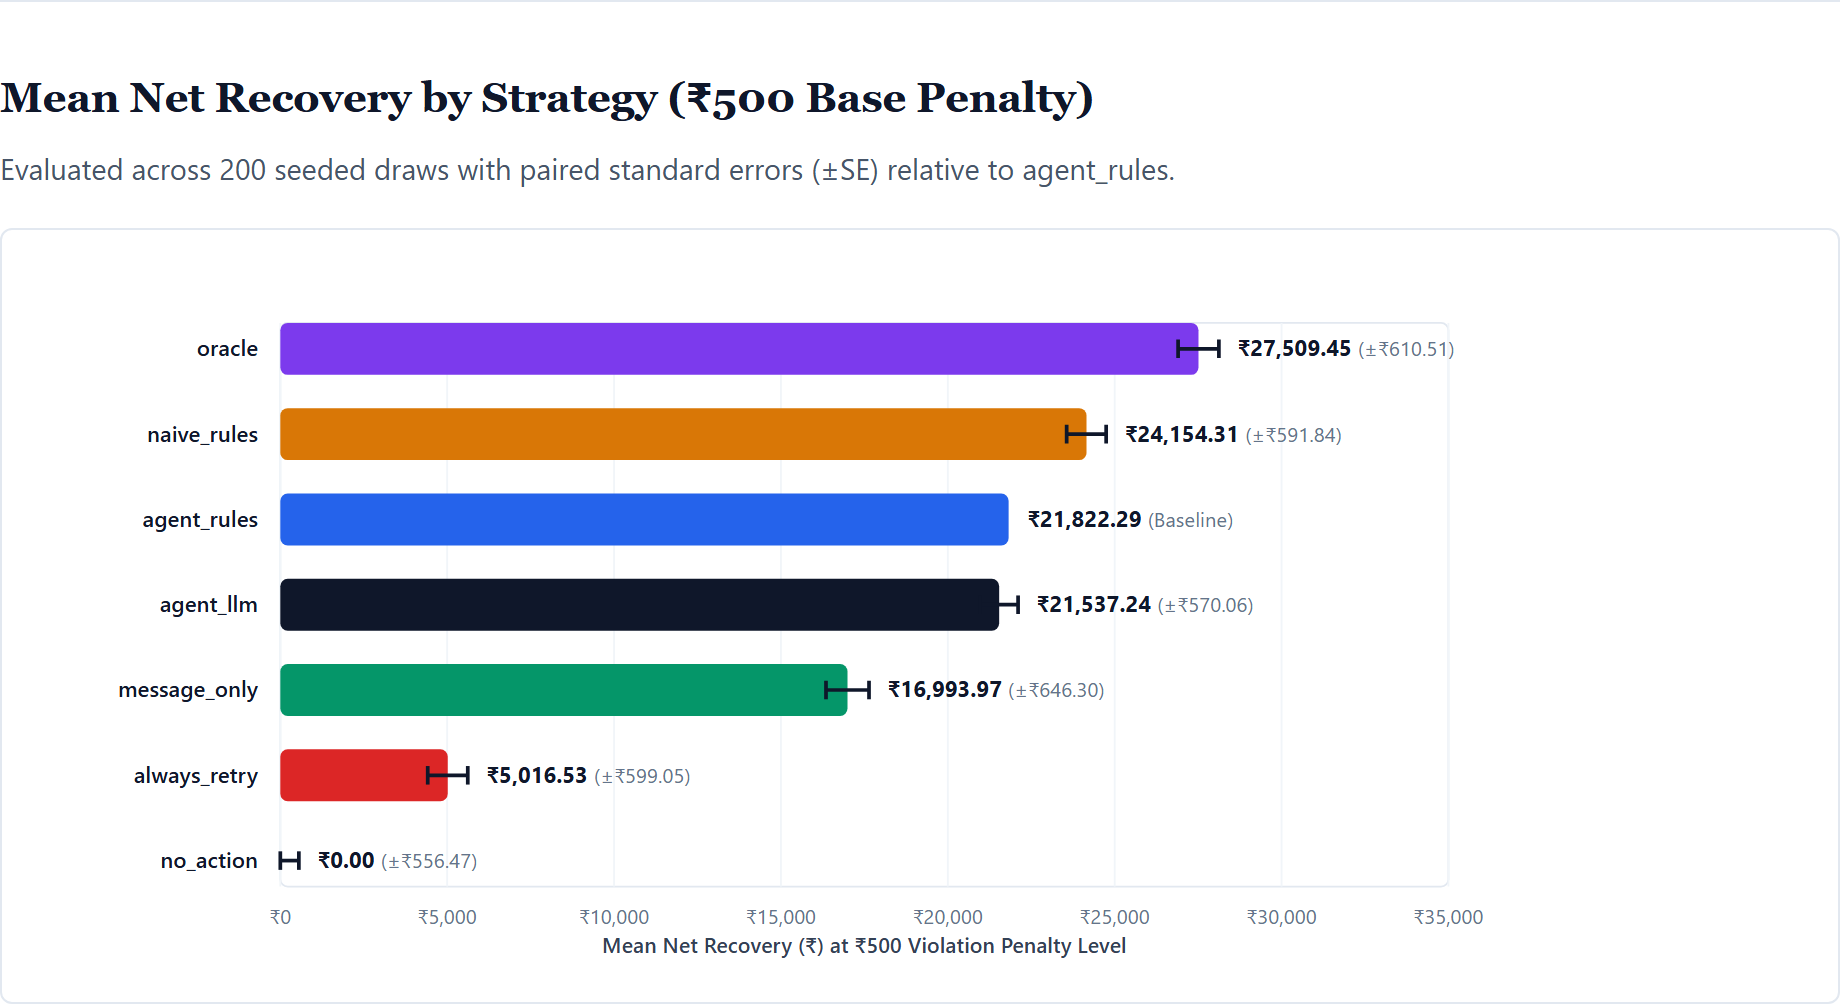
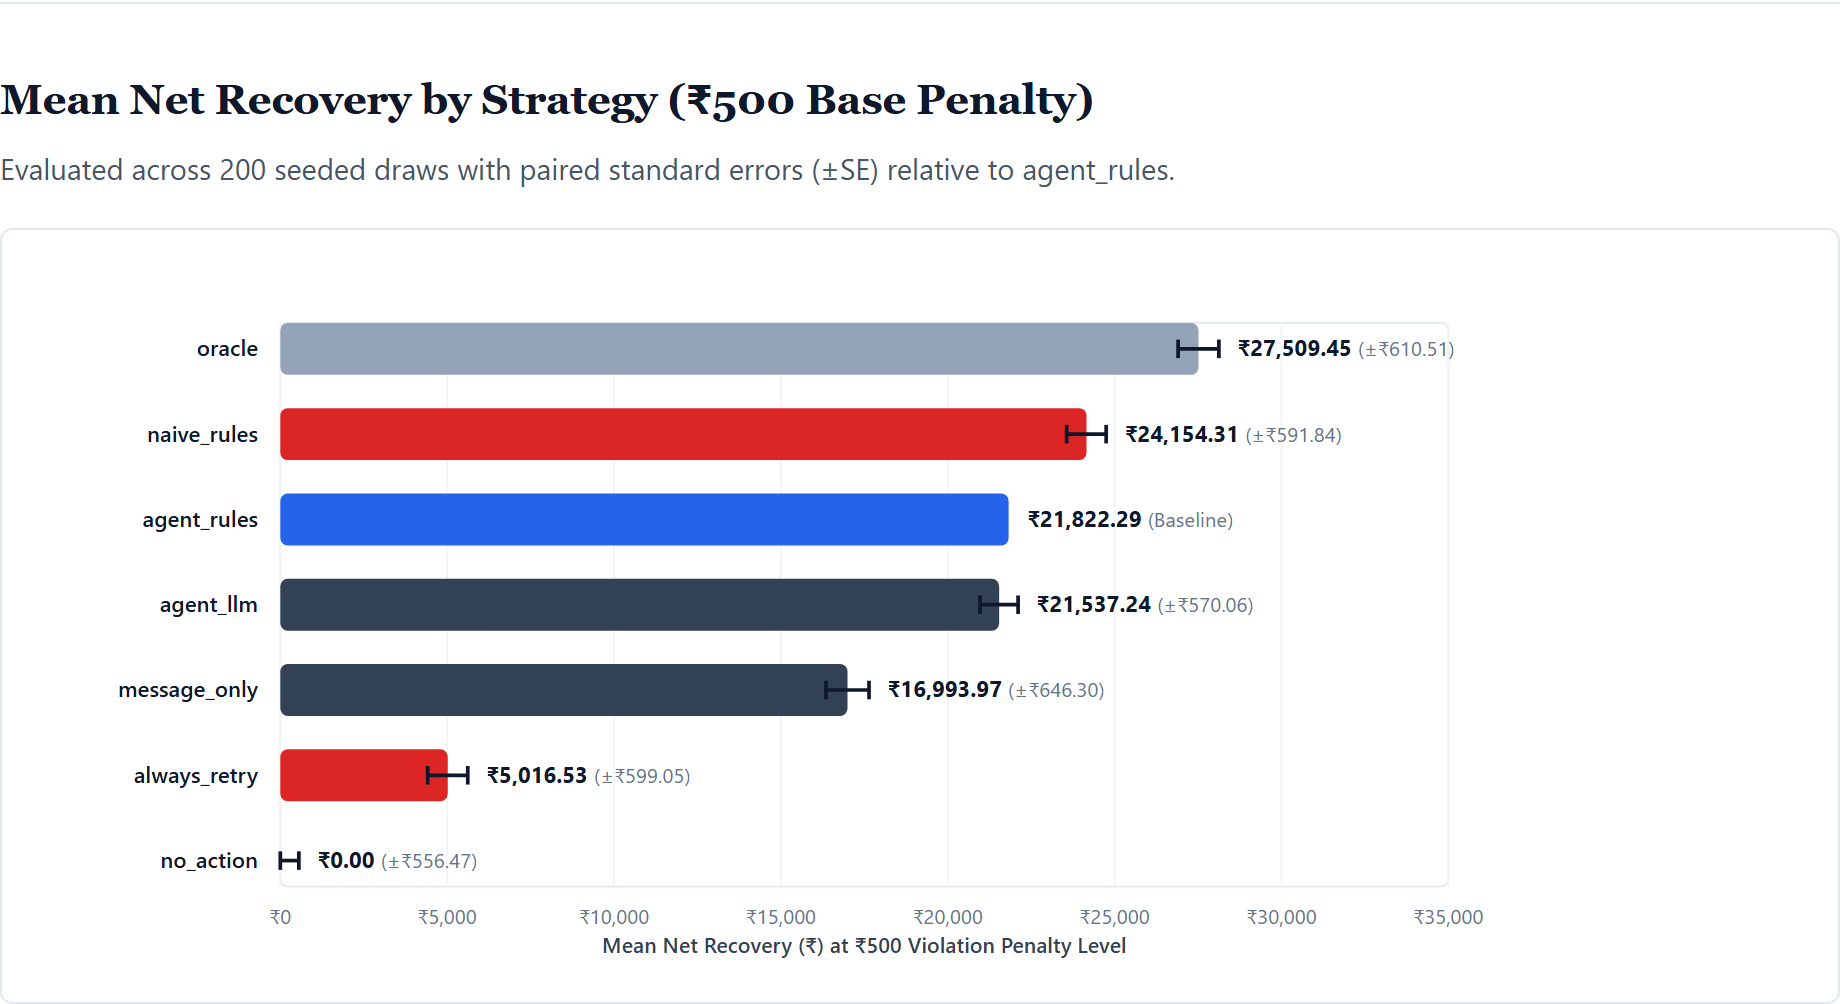
Apply semantic palette to bar chart and update sensitivity caption

diff --git a/benchmark_report.html b/benchmark_report.html
@@ -369,7 +369,7 @@
                 <span class="chip">Revenue at Risk: <strong>₹98,952.00</strong></span>
                 <span class="chip">Base Penalty: <strong>₹500 / violation</strong></span>
                 <span class="chip">Policy Version: <strong>d2975ba696cd</strong></span>
-                <span class="chip">Generated: <strong>2026-09-05 14:04:33</strong></span>
+                <span class="chip">Generated: <strong>2026-09-05 14:16:32</strong></span>
             </div>
             <div class="composition-box">
                 agent_llm composition: 31 live LLM / 0 rule fallback (cache miss) / 7 deterministic guard
@@ -516,7 +516,7 @@
 <g><line x1="287.3" y1="50" x2="287.3" y2="68" stroke="#94a3b8" stroke-width="1.2" /><rect x="287.3" y="18" width="156" height="32" rx="4" fill="#f8fafc" stroke="#cbd5e1" stroke-width="1.2" /><text x="365.3" y="31.0" text-anchor="middle" font-size="10" font-weight="bold" fill="#334155" style="font-variant-numeric: tabular-nums;">Oracle Threshold: ₹1,351.22</text><text x="365.3" y="43.0" text-anchor="middle" font-size="8.5" font-weight="600" fill="#64748b">violations drop to 0</text></g>
 </svg>
             </div>
-            <p class="chart-caption">Lines show mean net recovery across penalty levels from ₹0 to ₹5,000. agent_rules and agent_llm nearly coincide (differing by only ₹285 at this scale) — that near-coincidence is the finding: compliance guards and expected-value gating achieve parity with an LLM decision engine while eliminating non-compliance risk. See the sensitivity table for exact values.</p>
+            <p class="chart-caption">Lines show mean net recovery across penalty levels from Rs 0 to Rs 5,000. agent_rules and agent_llm nearly coincide - paired across 200 identical seeds the difference is -Rs 285 +/- Rs 570, smaller than its own standard error. Both run zero violations. See the sensitivity table for exact values.</p>
         </section>
 
         <!-- 2.d Horizontal Bar Chart at Base Penalty -->
@@ -545,13 +545,13 @@
 <line x1="765.0" y1="35" x2="765.0" y2="339" stroke="#f1f5f9" stroke-width="1" />
 <text x="765.0" y="359" text-anchor="middle" font-size="11" fill="#64748b" style="font-variant-numeric: tabular-nums;">₹35,000</text>
 <text x="450.0" y="375" text-anchor="middle" font-size="11.5" font-weight="600" fill="#334155">Mean Net Recovery (₹) at ₹500 Violation Penalty Level</text>
-<rect x="135" y="35" width="495.2" height="28" fill="#7c3aed" rx="4" />
+<rect x="135" y="35" width="495.2" height="28" fill="#94a3b8" rx="4" />
 <text x="123" y="53" text-anchor="end" font-size="12" font-weight="600" fill="#0f172a">oracle</text>
 <line x1="619.2" y1="49.0" x2="641.2" y2="49.0" stroke="#0f172a" stroke-width="2" />
 <line x1="619.2" y1="44.0" x2="619.2" y2="54.0" stroke="#0f172a" stroke-width="2" />
 <line x1="641.2" y1="44.0" x2="641.2" y2="54.0" stroke="#0f172a" stroke-width="2" />
 <text x="651.2" y="53" font-size="12" font-weight="700" fill="#0f172a" style="font-variant-numeric: tabular-nums;">₹27,509.45 <tspan font-size="11" font-weight="normal" fill="#64748b">(±₹610.51)</tspan></text>
-<rect x="135" y="81" width="434.8" height="28" fill="#d97706" rx="4" />
+<rect x="135" y="81" width="434.8" height="28" fill="#dc2626" rx="4" />
 <text x="123" y="99" text-anchor="end" font-size="12" font-weight="600" fill="#0f172a">naive_rules</text>
 <line x1="559.1" y1="95.0" x2="580.4" y2="95.0" stroke="#0f172a" stroke-width="2" />
 <line x1="559.1" y1="90.0" x2="559.1" y2="100.0" stroke="#0f172a" stroke-width="2" />
@@ -560,13 +560,13 @@
 <rect x="135" y="127" width="392.8" height="28" fill="#2563eb" rx="4" />
 <text x="123" y="145" text-anchor="end" font-size="12" font-weight="600" fill="#0f172a">agent_rules</text>
 <text x="537.8" y="145" font-size="12" font-weight="700" fill="#0f172a" style="font-variant-numeric: tabular-nums;">₹21,822.29 <tspan font-size="11" font-weight="normal" fill="#64748b">(Baseline)</tspan></text>
-<rect x="135" y="173" width="387.7" height="28" fill="#0f172a" rx="4" />
+<rect x="135" y="173" width="387.7" height="28" fill="#334155" rx="4" />
 <text x="123" y="191" text-anchor="end" font-size="12" font-weight="600" fill="#0f172a">agent_llm</text>
 <line x1="512.4" y1="187.0" x2="532.9" y2="187.0" stroke="#0f172a" stroke-width="2" />
 <line x1="512.4" y1="182.0" x2="512.4" y2="192.0" stroke="#0f172a" stroke-width="2" />
 <line x1="532.9" y1="182.0" x2="532.9" y2="192.0" stroke="#0f172a" stroke-width="2" />
 <text x="542.9" y="191" font-size="12" font-weight="700" fill="#0f172a" style="font-variant-numeric: tabular-nums;">₹21,537.24 <tspan font-size="11" font-weight="normal" fill="#64748b">(±₹570.06)</tspan></text>
-<rect x="135" y="219" width="305.9" height="28" fill="#059669" rx="4" />
+<rect x="135" y="219" width="305.9" height="28" fill="#334155" rx="4" />
 <text x="123" y="237" text-anchor="end" font-size="12" font-weight="600" fill="#0f172a">message_only</text>
 <line x1="429.3" y1="233.0" x2="452.5" y2="233.0" stroke="#0f172a" stroke-width="2" />
 <line x1="429.3" y1="228.0" x2="429.3" y2="238.0" stroke="#0f172a" stroke-width="2" />
@@ -578,7 +578,7 @@
 <line x1="214.5" y1="274.0" x2="214.5" y2="284.0" stroke="#0f172a" stroke-width="2" />
 <line x1="236.1" y1="274.0" x2="236.1" y2="284.0" stroke="#0f172a" stroke-width="2" />
 <text x="246.1" y="283" font-size="12" font-weight="700" fill="#0f172a" style="font-variant-numeric: tabular-nums;">₹5,016.53 <tspan font-size="11" font-weight="normal" fill="#64748b">(±₹599.05)</tspan></text>
-<rect x="135" y="311" width="0.0" height="28" fill="#64748b" rx="4" />
+<rect x="135" y="311" width="0.0" height="28" fill="#cbd5e1" rx="4" />
 <text x="123" y="329" text-anchor="end" font-size="12" font-weight="600" fill="#0f172a">no_action</text>
 <line x1="135.0" y1="325.0" x2="145.0" y2="325.0" stroke="#0f172a" stroke-width="2" />
 <line x1="135.0" y1="320.0" x2="135.0" y2="330.0" stroke="#0f172a" stroke-width="2" />
@@ -618,7 +618,7 @@
             <td class="text-center font-bold text-slate-500">1</td>
             <td>
                 <div class="strategy-badge">
-                    <span class="strategy-dot" style="background-color: #7c3aed;"></span>
+                    <span class="strategy-dot" style="background-color: #94a3b8;"></span>
                     <strong>oracle</strong>
                 </div>
             </td>
@@ -638,7 +638,7 @@
             <td class="text-center font-bold text-slate-500">2</td>
             <td>
                 <div class="strategy-badge">
-                    <span class="strategy-dot" style="background-color: #d97706;"></span>
+                    <span class="strategy-dot" style="background-color: #dc2626;"></span>
                     <strong>naive_rules</strong>
                 </div>
             </td>
@@ -678,7 +678,7 @@
             <td class="text-center font-bold text-slate-500">4</td>
             <td>
                 <div class="strategy-badge">
-                    <span class="strategy-dot" style="background-color: #0f172a;"></span>
+                    <span class="strategy-dot" style="background-color: #334155;"></span>
                     <strong>agent_llm</strong>
                 </div>
             </td>
@@ -698,7 +698,7 @@
             <td class="text-center font-bold text-slate-500">5</td>
             <td>
                 <div class="strategy-badge">
-                    <span class="strategy-dot" style="background-color: #059669;"></span>
+                    <span class="strategy-dot" style="background-color: #334155;"></span>
                     <strong>message_only</strong>
                 </div>
             </td>
@@ -738,7 +738,7 @@
             <td class="text-center font-bold text-slate-500">7</td>
             <td>
                 <div class="strategy-badge">
-                    <span class="strategy-dot" style="background-color: #64748b;"></span>
+                    <span class="strategy-dot" style="background-color: #cbd5e1;"></span>
                     <strong>no_action</strong>
                 </div>
             </td>
@@ -775,7 +775,7 @@
                         </tr>
                     </thead>
                     <tbody>
-                        <tr ><td class="font-bold text-slate-900 text-center num-cell">₹0</td><td class="text-right text-slate-700 num-cell">₹28,159.94</td><td class="text-right text-slate-700 num-cell">₹27,154.31</td><td class="text-right text-slate-700 num-cell">₹21,822.29</td><td class="text-right text-slate-700 num-cell">₹21,537.24</td><td class="text-right text-slate-700 num-cell">₹16,993.97</td><td class="text-right text-slate-700 num-cell">₹13,016.53</td><td class="text-right text-slate-700 num-cell">₹0.00</td><td class="text-center"><span class="badge-deployable" style="background: #d9770615; color: #d97706; border: 1px solid #d9770640;">naive_rules</span></td></tr><tr ><td class="font-bold text-slate-900 text-center num-cell">₹250</td><td class="text-right text-slate-700 num-cell">₹27,759.45</td><td class="text-right text-slate-700 num-cell">₹25,654.31</td><td class="text-right text-slate-700 num-cell">₹21,822.29</td><td class="text-right text-slate-700 num-cell">₹21,537.24</td><td class="text-right text-slate-700 num-cell">₹16,993.97</td><td class="text-right text-slate-700 num-cell">₹9,016.53</td><td class="text-right text-slate-700 num-cell">₹0.00</td><td class="text-center"><span class="badge-deployable" style="background: #d9770615; color: #d97706; border: 1px solid #d9770640;">naive_rules</span></td></tr><tr ><td class="font-bold text-slate-900 text-center num-cell">₹500</td><td class="text-right text-slate-700 num-cell">₹27,509.45</td><td class="text-right text-slate-700 num-cell">₹24,154.31</td><td class="text-right text-slate-700 num-cell">₹21,822.29</td><td class="text-right text-slate-700 num-cell">₹21,537.24</td><td class="text-right text-slate-700 num-cell">₹16,993.97</td><td class="text-right text-slate-700 num-cell">₹5,016.53</td><td class="text-right text-slate-700 num-cell">₹0.00</td><td class="text-center"><span class="badge-deployable" style="background: #d9770615; color: #d97706; border: 1px solid #d9770640;">naive_rules</span></td></tr><tr class="highlight-row"><td class="font-bold text-slate-900 text-center num-cell">₹889</td><td class="text-right text-slate-700 num-cell">₹27,120.45</td><td class="text-right text-slate-700 num-cell">₹21,820.31</td><td class="text-right text-slate-700 num-cell">₹21,822.29</td><td class="text-right text-slate-700 num-cell">₹21,537.24</td><td class="text-right text-slate-700 num-cell">₹16,993.97</td><td class="text-right text-danger font-bold num-cell">₹-1,207.46</td><td class="text-right text-slate-700 num-cell">₹0.00</td><td class="text-center"><span class="badge-deployable" style="background: #2563eb15; color: #2563eb; border: 1px solid #2563eb40;">agent_rules</span></td></tr><tr ><td class="font-bold text-slate-900 text-center num-cell">₹1,500</td><td class="text-right text-slate-700 num-cell">₹26,110.62</td><td class="text-right text-slate-700 num-cell">₹18,154.31</td><td class="text-right text-slate-700 num-cell">₹21,822.29</td><td class="text-right text-slate-700 num-cell">₹21,537.24</td><td class="text-right text-slate-700 num-cell">₹16,993.97</td><td class="text-right text-danger font-bold num-cell">₹-10,983.47</td><td class="text-right text-slate-700 num-cell">₹0.00</td><td class="text-center"><span class="badge-deployable" style="background: #2563eb15; color: #2563eb; border: 1px solid #2563eb40;">agent_rules</span></td></tr><tr ><td class="font-bold text-slate-900 text-center num-cell">₹3,000</td><td class="text-right text-slate-700 num-cell">₹26,110.62</td><td class="text-right text-slate-700 num-cell">₹9,154.32</td><td class="text-right text-slate-700 num-cell">₹21,822.29</td><td class="text-right text-slate-700 num-cell">₹21,537.24</td><td class="text-right text-slate-700 num-cell">₹16,993.97</td><td class="text-right text-danger font-bold num-cell">₹-34,983.46</td><td class="text-right text-slate-700 num-cell">₹0.00</td><td class="text-center"><span class="badge-deployable" style="background: #2563eb15; color: #2563eb; border: 1px solid #2563eb40;">agent_rules</span></td></tr><tr ><td class="font-bold text-slate-900 text-center num-cell">₹5,000</td><td class="text-right text-slate-700 num-cell">₹26,110.62</td><td class="text-right text-danger font-bold num-cell">₹-2,845.68</td><td class="text-right text-slate-700 num-cell">₹21,822.29</td><td class="text-right text-slate-700 num-cell">₹21,537.24</td><td class="text-right text-slate-700 num-cell">₹16,993.97</td><td class="text-right text-danger font-bold num-cell">₹-66,983.46</td><td class="text-right text-slate-700 num-cell">₹0.00</td><td class="text-center"><span class="badge-deployable" style="background: #2563eb15; color: #2563eb; border: 1px solid #2563eb40;">agent_rules</span></td></tr>
+                        <tr ><td class="font-bold text-slate-900 text-center num-cell">₹0</td><td class="text-right text-slate-700 num-cell">₹28,159.94</td><td class="text-right text-slate-700 num-cell">₹27,154.31</td><td class="text-right text-slate-700 num-cell">₹21,822.29</td><td class="text-right text-slate-700 num-cell">₹21,537.24</td><td class="text-right text-slate-700 num-cell">₹16,993.97</td><td class="text-right text-slate-700 num-cell">₹13,016.53</td><td class="text-right text-slate-700 num-cell">₹0.00</td><td class="text-center"><span class="badge-deployable" style="background: #dc262615; color: #dc2626; border: 1px solid #dc262640;">naive_rules</span></td></tr><tr ><td class="font-bold text-slate-900 text-center num-cell">₹250</td><td class="text-right text-slate-700 num-cell">₹27,759.45</td><td class="text-right text-slate-700 num-cell">₹25,654.31</td><td class="text-right text-slate-700 num-cell">₹21,822.29</td><td class="text-right text-slate-700 num-cell">₹21,537.24</td><td class="text-right text-slate-700 num-cell">₹16,993.97</td><td class="text-right text-slate-700 num-cell">₹9,016.53</td><td class="text-right text-slate-700 num-cell">₹0.00</td><td class="text-center"><span class="badge-deployable" style="background: #dc262615; color: #dc2626; border: 1px solid #dc262640;">naive_rules</span></td></tr><tr ><td class="font-bold text-slate-900 text-center num-cell">₹500</td><td class="text-right text-slate-700 num-cell">₹27,509.45</td><td class="text-right text-slate-700 num-cell">₹24,154.31</td><td class="text-right text-slate-700 num-cell">₹21,822.29</td><td class="text-right text-slate-700 num-cell">₹21,537.24</td><td class="text-right text-slate-700 num-cell">₹16,993.97</td><td class="text-right text-slate-700 num-cell">₹5,016.53</td><td class="text-right text-slate-700 num-cell">₹0.00</td><td class="text-center"><span class="badge-deployable" style="background: #dc262615; color: #dc2626; border: 1px solid #dc262640;">naive_rules</span></td></tr><tr class="highlight-row"><td class="font-bold text-slate-900 text-center num-cell">₹889</td><td class="text-right text-slate-700 num-cell">₹27,120.45</td><td class="text-right text-slate-700 num-cell">₹21,820.31</td><td class="text-right text-slate-700 num-cell">₹21,822.29</td><td class="text-right text-slate-700 num-cell">₹21,537.24</td><td class="text-right text-slate-700 num-cell">₹16,993.97</td><td class="text-right text-danger font-bold num-cell">₹-1,207.46</td><td class="text-right text-slate-700 num-cell">₹0.00</td><td class="text-center"><span class="badge-deployable" style="background: #2563eb15; color: #2563eb; border: 1px solid #2563eb40;">agent_rules</span></td></tr><tr ><td class="font-bold text-slate-900 text-center num-cell">₹1,500</td><td class="text-right text-slate-700 num-cell">₹26,110.62</td><td class="text-right text-slate-700 num-cell">₹18,154.31</td><td class="text-right text-slate-700 num-cell">₹21,822.29</td><td class="text-right text-slate-700 num-cell">₹21,537.24</td><td class="text-right text-slate-700 num-cell">₹16,993.97</td><td class="text-right text-danger font-bold num-cell">₹-10,983.47</td><td class="text-right text-slate-700 num-cell">₹0.00</td><td class="text-center"><span class="badge-deployable" style="background: #2563eb15; color: #2563eb; border: 1px solid #2563eb40;">agent_rules</span></td></tr><tr ><td class="font-bold text-slate-900 text-center num-cell">₹3,000</td><td class="text-right text-slate-700 num-cell">₹26,110.62</td><td class="text-right text-slate-700 num-cell">₹9,154.32</td><td class="text-right text-slate-700 num-cell">₹21,822.29</td><td class="text-right text-slate-700 num-cell">₹21,537.24</td><td class="text-right text-slate-700 num-cell">₹16,993.97</td><td class="text-right text-danger font-bold num-cell">₹-34,983.46</td><td class="text-right text-slate-700 num-cell">₹0.00</td><td class="text-center"><span class="badge-deployable" style="background: #2563eb15; color: #2563eb; border: 1px solid #2563eb40;">agent_rules</span></td></tr><tr ><td class="font-bold text-slate-900 text-center num-cell">₹5,000</td><td class="text-right text-slate-700 num-cell">₹26,110.62</td><td class="text-right text-danger font-bold num-cell">₹-2,845.68</td><td class="text-right text-slate-700 num-cell">₹21,822.29</td><td class="text-right text-slate-700 num-cell">₹21,537.24</td><td class="text-right text-slate-700 num-cell">₹16,993.97</td><td class="text-right text-danger font-bold num-cell">₹-66,983.46</td><td class="text-right text-slate-700 num-cell">₹0.00</td><td class="text-center"><span class="badge-deployable" style="background: #2563eb15; color: #2563eb; border: 1px solid #2563eb40;">agent_rules</span></td></tr>
                     </tbody>
                 </table>
             </div>
@@ -871,7 +871,7 @@
         <tr>
             <td>
                 <div class="strategy-badge">
-                    <span class="strategy-dot" style="background-color: #7c3aed;"></span>
+                    <span class="strategy-dot" style="background-color: #94a3b8;"></span>
                     <strong>oracle</strong>
                 </div>
             </td>
@@ -885,7 +885,7 @@
         <tr>
             <td>
                 <div class="strategy-badge">
-                    <span class="strategy-dot" style="background-color: #d97706;"></span>
+                    <span class="strategy-dot" style="background-color: #dc2626;"></span>
                     <strong>naive_rules</strong>
                 </div>
             </td>
@@ -913,7 +913,7 @@
         <tr>
             <td>
                 <div class="strategy-badge">
-                    <span class="strategy-dot" style="background-color: #0f172a;"></span>
+                    <span class="strategy-dot" style="background-color: #334155;"></span>
                     <strong>agent_llm</strong>
                 </div>
             </td>
@@ -927,7 +927,7 @@
         <tr>
             <td>
                 <div class="strategy-badge">
-                    <span class="strategy-dot" style="background-color: #059669;"></span>
+                    <span class="strategy-dot" style="background-color: #334155;"></span>
                     <strong>message_only</strong>
                 </div>
             </td>
@@ -955,7 +955,7 @@
         <tr>
             <td>
                 <div class="strategy-badge">
-                    <span class="strategy-dot" style="background-color: #64748b;"></span>
+                    <span class="strategy-dot" style="background-color: #cbd5e1;"></span>
                     <strong>no_action</strong>
                 </div>
             </td>

diff --git a/report_generator.py b/report_generator.py
@@ -4,13 +4,13 @@ from datetime import datetime
 
 
 STRATEGY_COLORS = {
-    "oracle": "#7c3aed",
-    "agent_rules": "#2563eb",
-    "agent_llm": "#0f172a",
-    "naive_rules": "#d97706",
-    "always_retry": "#dc2626",
-    "message_only": "#059669",
-    "no_action": "#64748b",
+    "agent_rules": "#2563eb",   # single accent blue (subject)
+    "agent_llm": "#334155",     # neutral dark slate (compliant family)
+    "message_only": "#334155",  # neutral dark slate (compliant family)
+    "naive_rules": "#dc2626",   # muted red (value-destroying family)
+    "always_retry": "#dc2626",  # muted red (value-destroying family)
+    "oracle": "#94a3b8",        # light grey (reference bound)
+    "no_action": "#cbd5e1",     # lightest grey (baseline)
 }
 
 STRATEGY_LABELS = {
@@ -920,7 +920,7 @@ def generate_benchmark_html(
             <div class="chart-box">
                 {curve_svg}
             </div>
-            <p class="chart-caption">Lines show mean net recovery across penalty levels from ₹0 to ₹5,000. agent_rules and agent_llm nearly coincide (differing by only ₹285 at this scale) — that near-coincidence is the finding: compliance guards and expected-value gating achieve parity with an LLM decision engine while eliminating non-compliance risk. See the sensitivity table for exact values.</p>
+            <p class="chart-caption">Lines show mean net recovery across penalty levels from Rs 0 to Rs 5,000. agent_rules and agent_llm nearly coincide - paired across 200 identical seeds the difference is -Rs 285 +/- Rs 570, smaller than its own standard error. Both run zero violations. See the sensitivity table for exact values.</p>
         </section>
 
         <!-- 2.d Horizontal Bar Chart at Base Penalty -->

diff --git a/benchmark_results.md b/benchmark_results.md
@@ -1,6 +1,6 @@
 # Benchmark Results – Recovery Agent Multi-Strategy Evaluation
 
-**Timestamp:** 2026-09-05 14:04:33 | **Batch Size:** 40 records | **Seeds:** 200 | **Total at Risk:** ₹98,952.00 | **Penalty:** ₹500
+**Timestamp:** 2026-09-05 14:16:32 | **Batch Size:** 40 records | **Seeds:** 200 | **Total at Risk:** ₹98,952.00 | **Penalty:** ₹500
 
 `agent_llm composition: 31 live LLM / 0 rule fallback (cache miss) / 7 deterministic guard`
 
